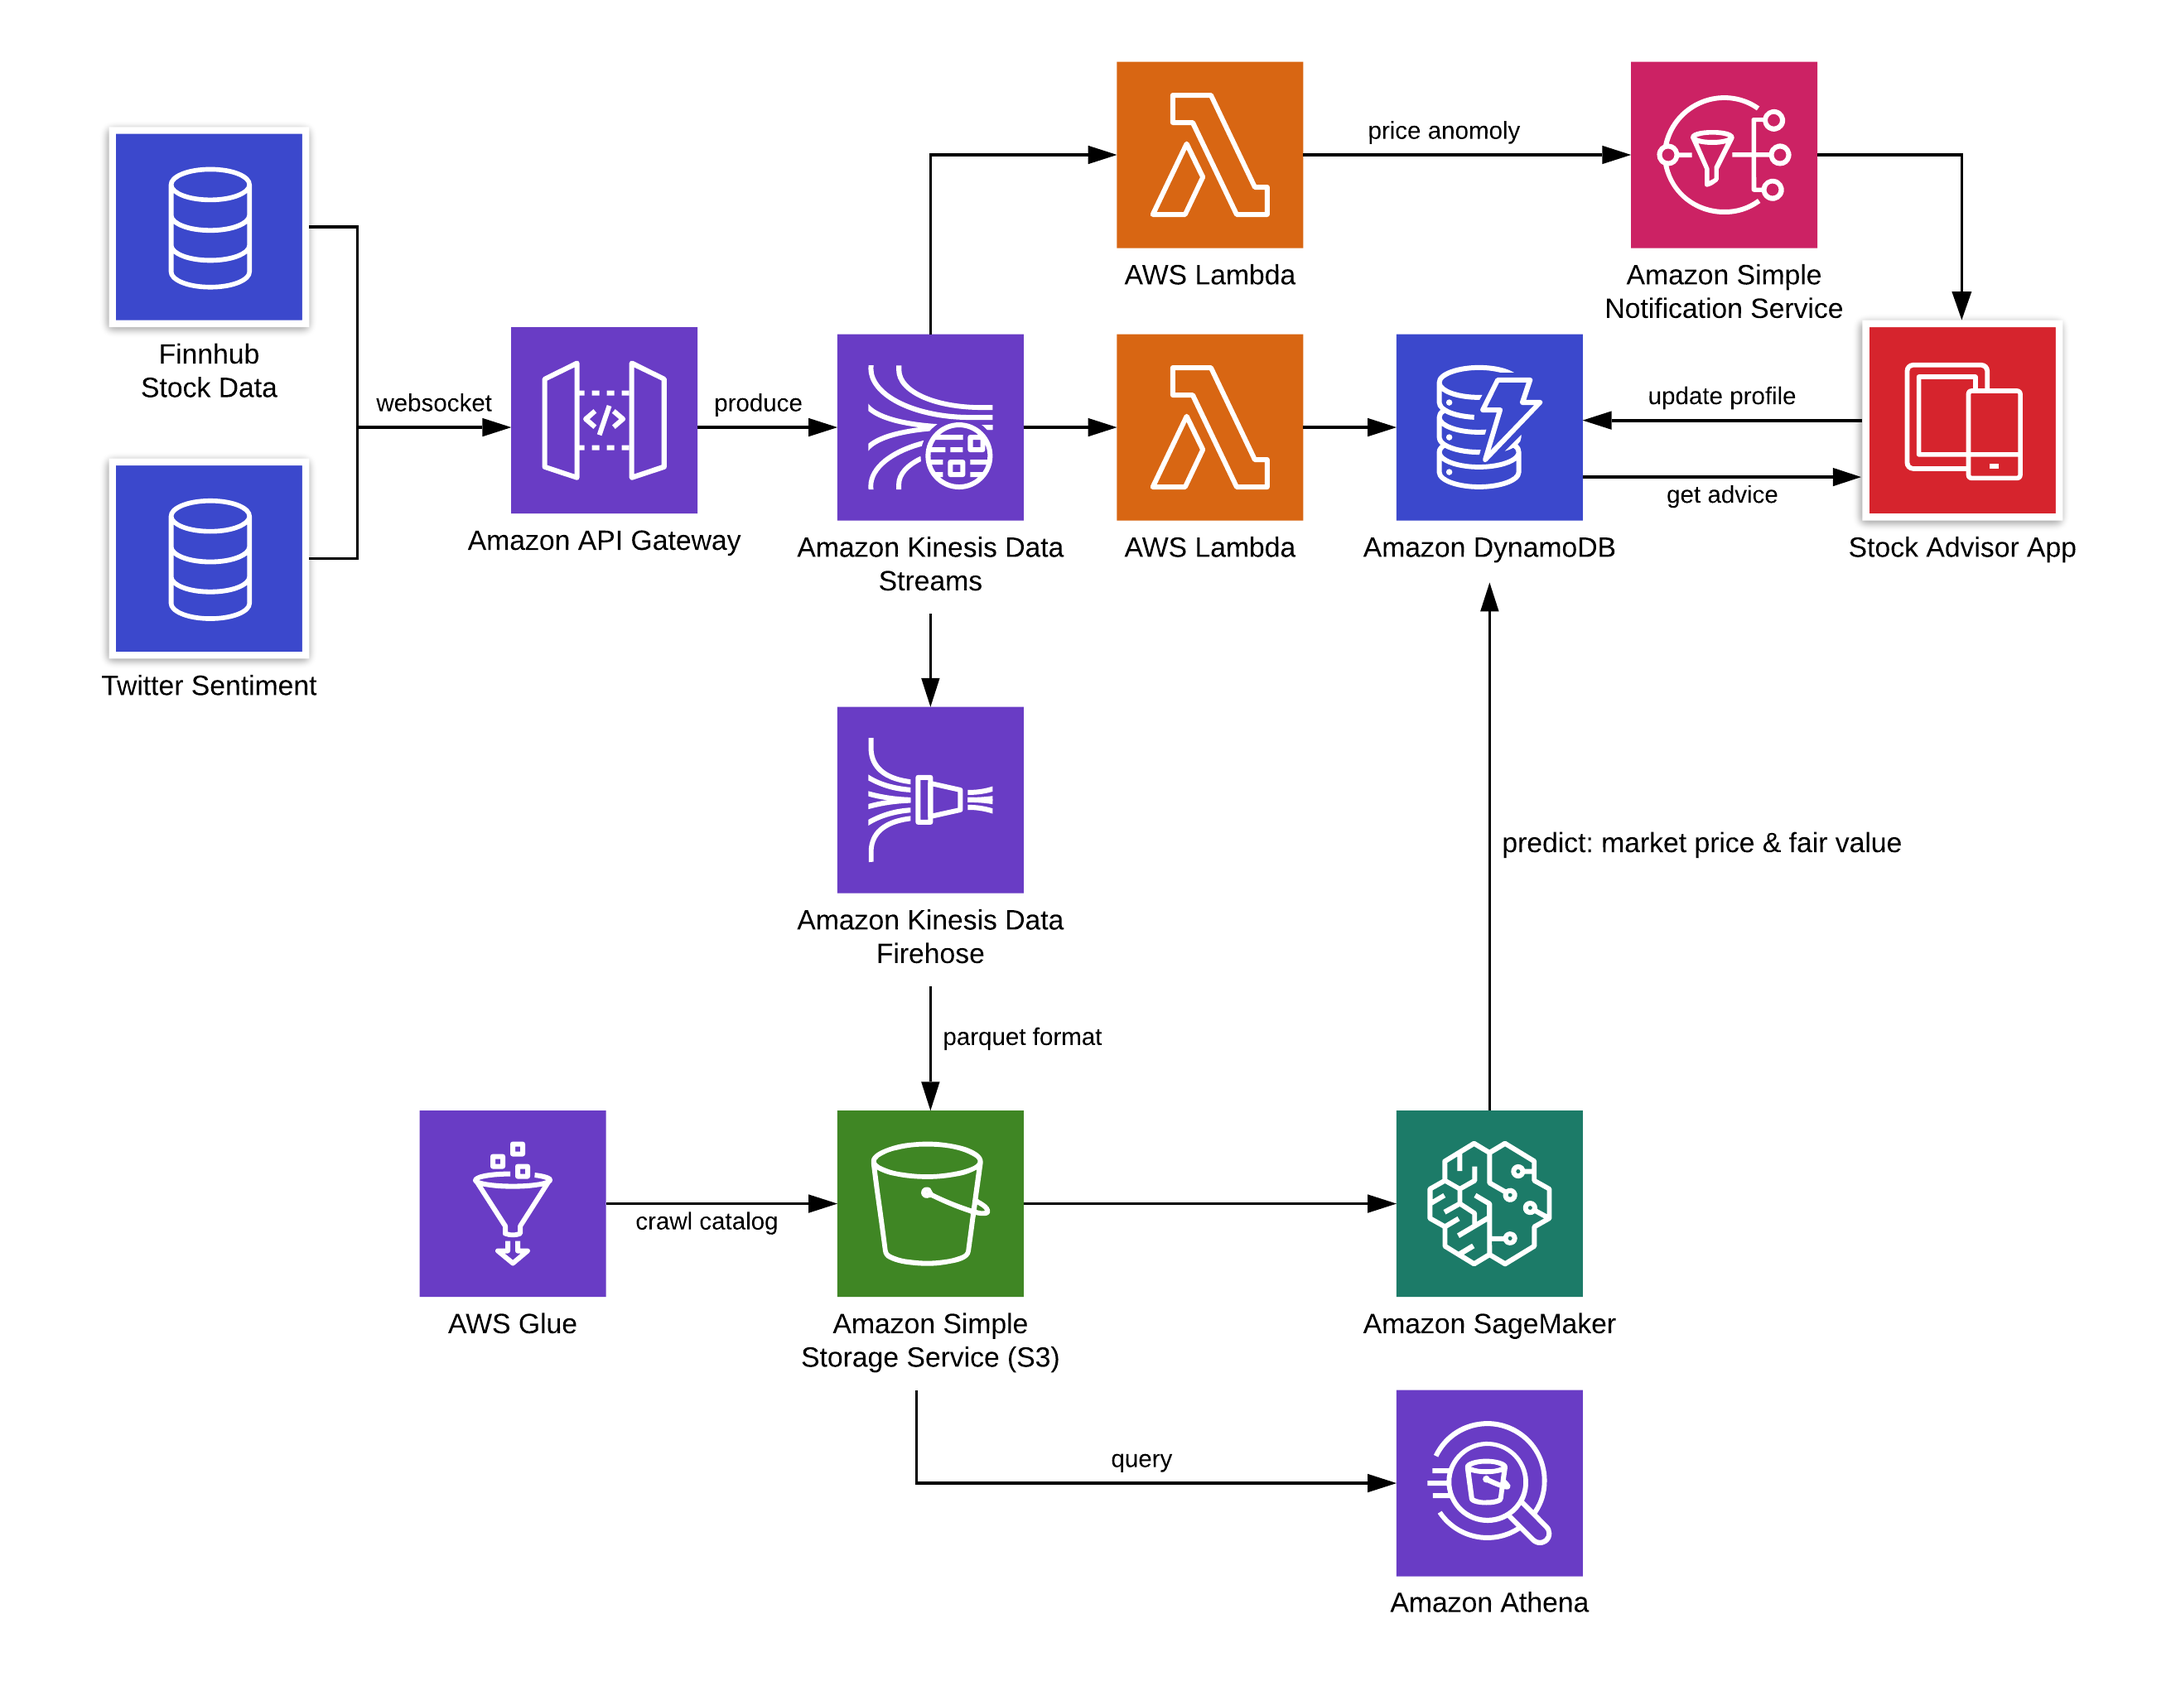
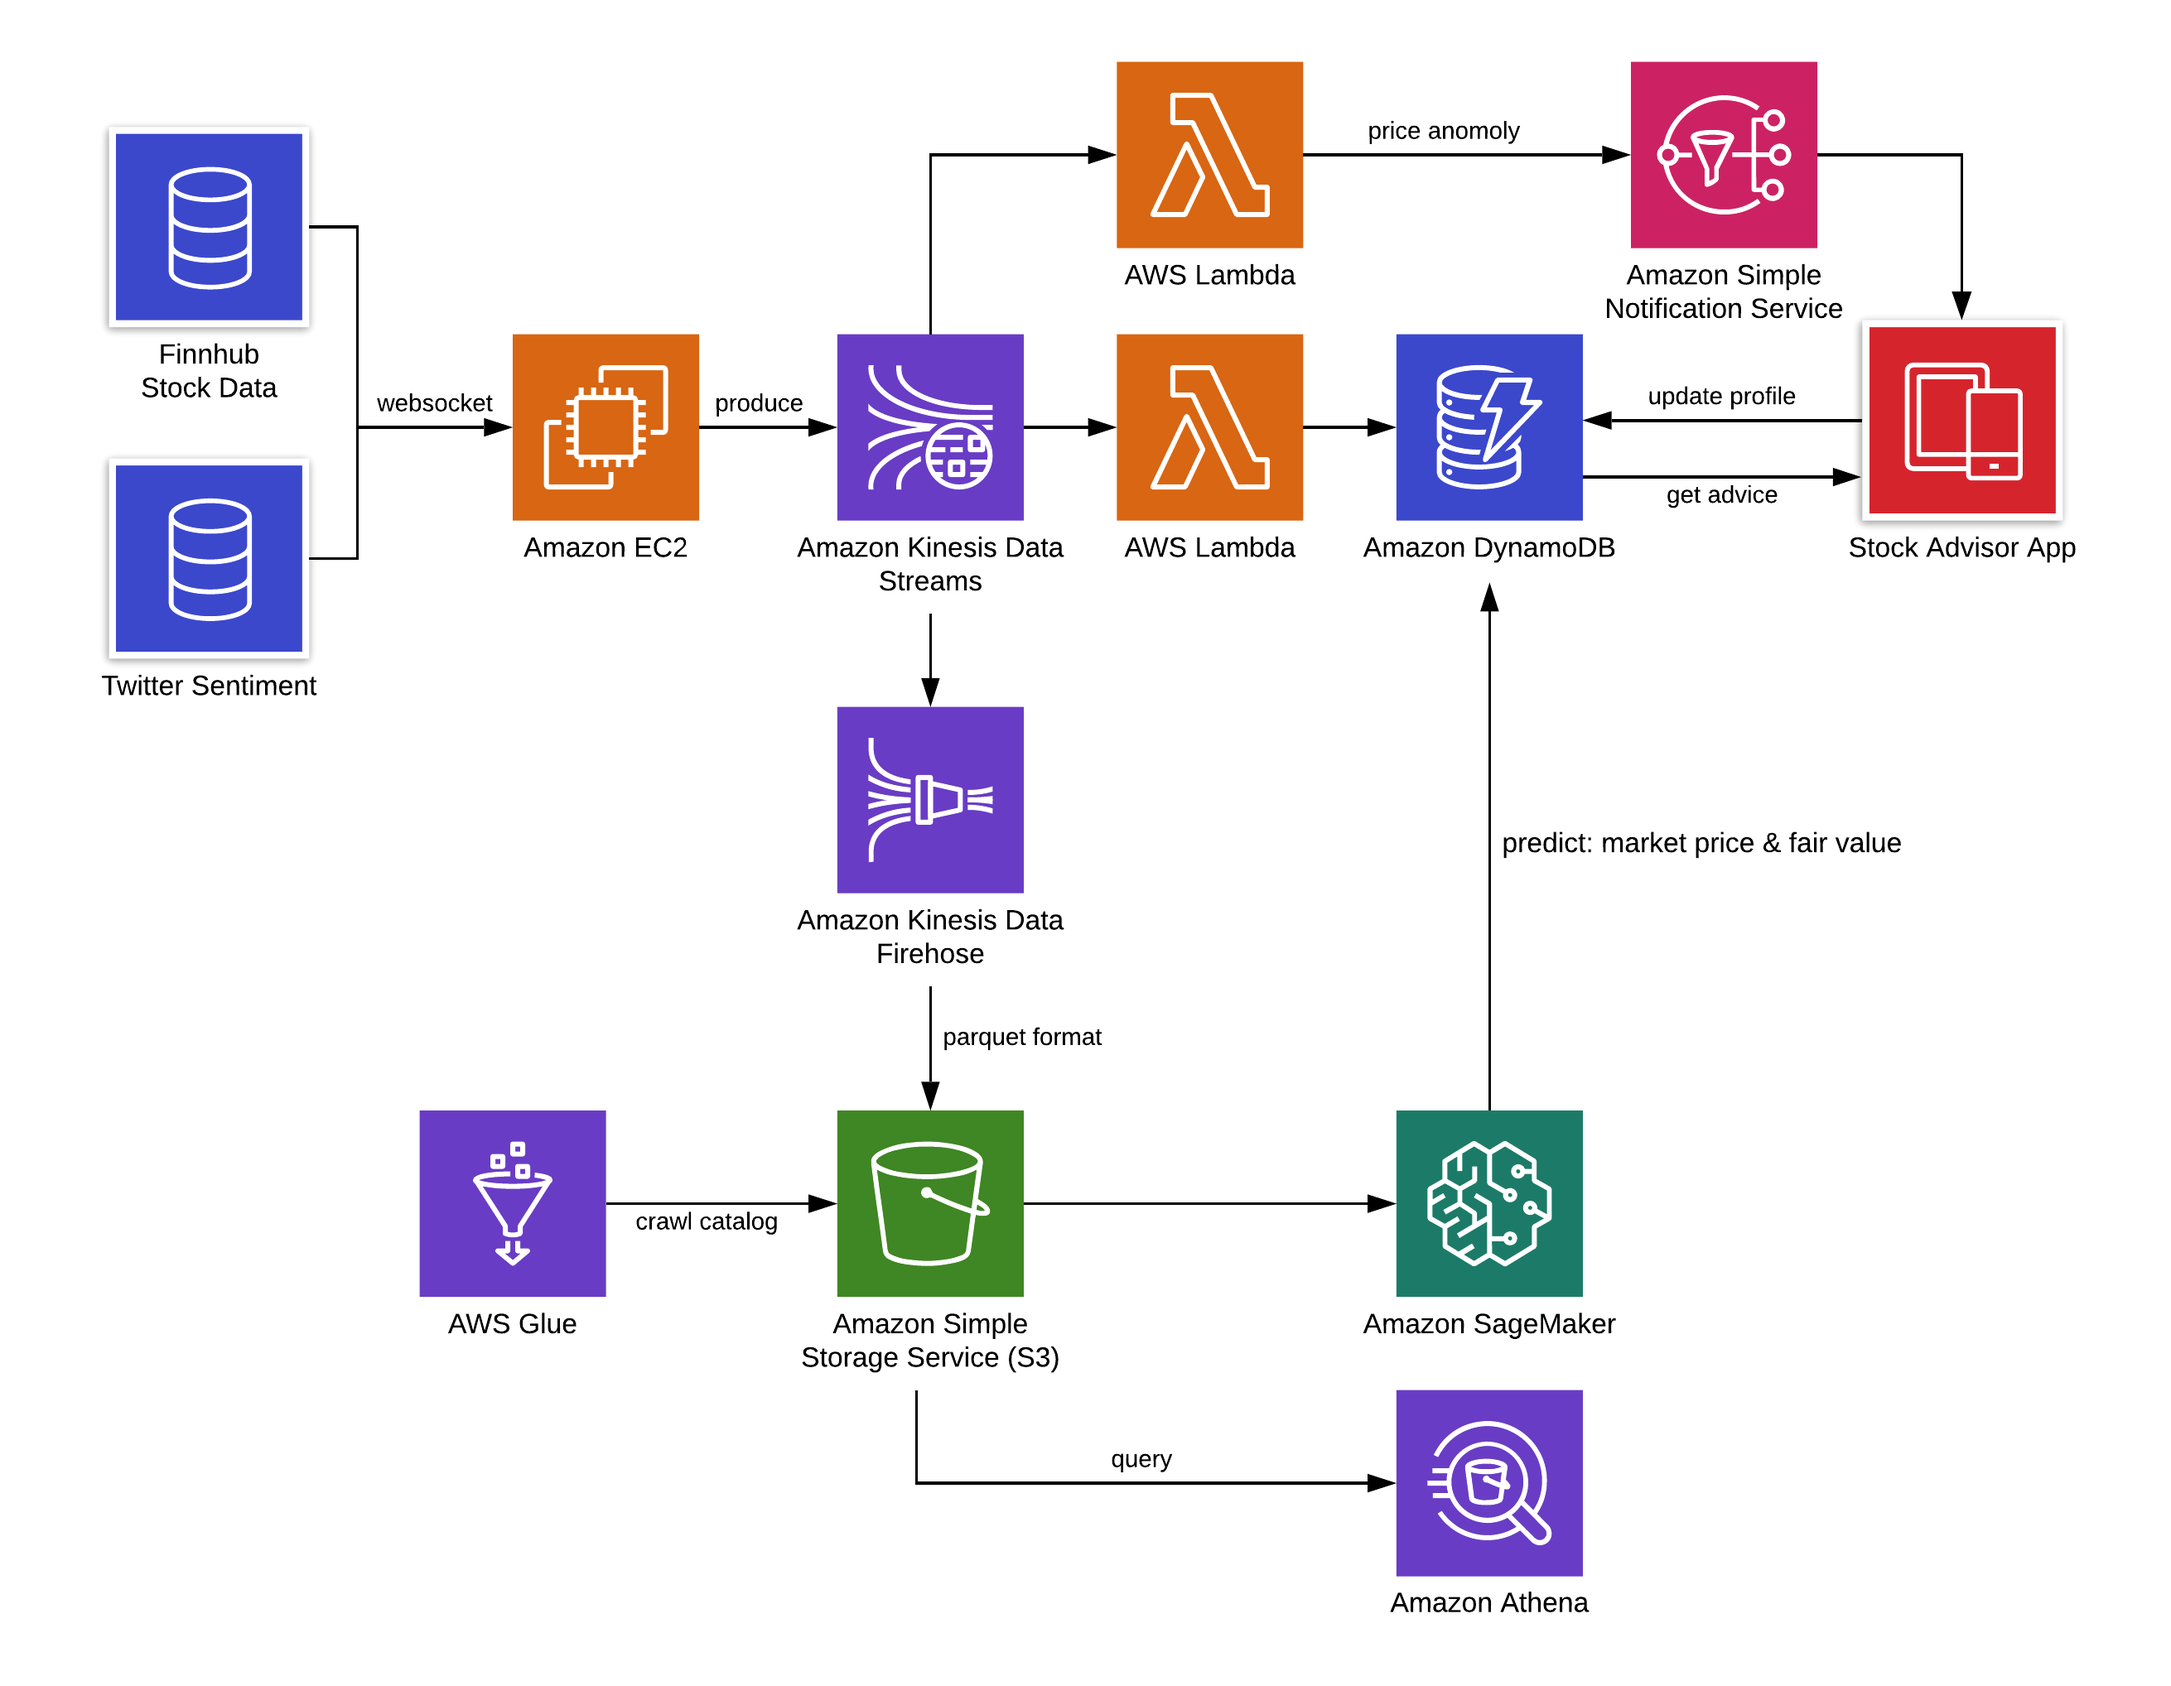
Update docs

Changed region(s): [[0.1854, 0.1857, 0.3709, 0.3404]]

diff --git a/README.md b/README.md
@@ -25,7 +25,7 @@ NOTE: Very much a work and progress and mostly to practice using the target tech
 
 ## Target Technologies
 * Terraform for infrastructure setup (AWS)
-    * API Gateway
+    * EC2
         * transform provided websockets into streams
     * Glue 
         * Crawl S3 for data catalog
